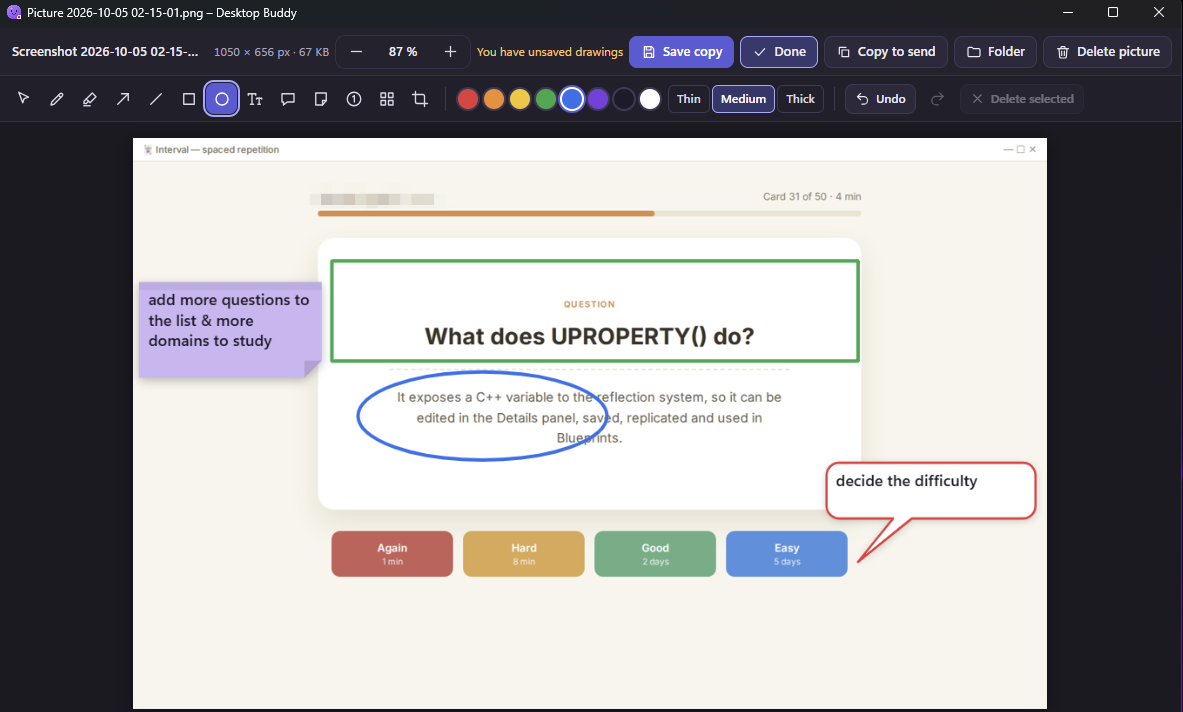
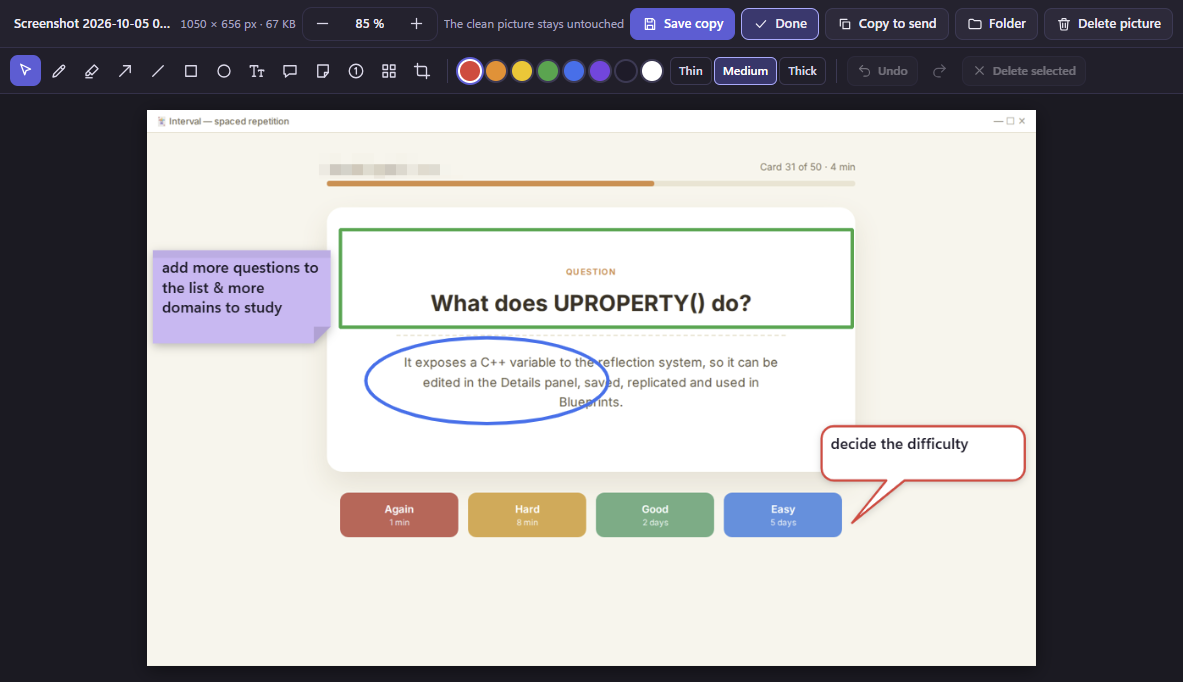
picture window: a light theme; the drawing picture on the site in light and dark
- The picture window (the large picture with its drawing tools) was
  always dark, even with the app on the light theme. view.css keeps
  its dark colours as they were and gets a light set of the same
  tokens under prefers-color-scheme: light, which follows the app's
  Theme setting. Colours that were written straight into rules (danger
  hover, pressed swatch and size, warning status, the checkerboard
  behind transparent pictures, shadows, error text, menu items, links)
  are tokens now, with a value for each theme. Checked rule by rule:
  with the dark values put back in, every rule is the same as before.
- The window opens with the background of the current theme
  (windows.js, like the other windows), so it never flashes dark
  before a light page.
- Presentation page, "Everyday tools": the drawing picture has a
  light and a dark version (screenshot-annotate-light.png and
  screenshot-annotate.png) and the page shows the one that matches
  its theme. Both are the picture window's own content in drawing
  mode, captured through the DevTools protocol with the theme
  emulated, from npm start on _demo-data, with the same drawings as
  the old picture (the demo picture's saved drawings). README and
  FEATURES.md keep screenshot-annotate.png, now the new dark one
  without the title bar. build-site.js copies both;
  docs/media/README.md says how they were made; CHANGELOG has an
  Unreleased entry.

Checked: in the running app, every text in the window's bars passes
[…]

Changed region(s): [[0.0, 0.0, 1.0, 1.0]]

diff --git a/src/renderer/shot/view.css b/src/renderer/shot/view.css
@@ -1,14 +1,33 @@
-/* Large screenshot (1.10.0) + annotations (1.11.0): the bar on top, the toolbar under it, the picture on a dark background. */
+/* Large screenshot (1.10.0) + annotations (1.11.0): the bar on top, the toolbar under it, the picture on a dark background (light in the light theme). */
 /* F-M10: the view keeps its dark canvas (good for pictures), with its colours as local tokens;
-   the filled "primary" buttons use the same --accent-btn as every other window (tokens.css). */
+   the filled "primary" buttons use the same --accent-btn as every other window (tokens.css).
+   Light theme (28.11.2026): with the Theme setting on light (prefers-color-scheme: light), the same tokens take
+   the light palette of tokens.css, so the window matches the rest of the app; dark stays exactly as it was.
+   Every colour that was written straight into a rule is a token now, with a value for each theme. */
 :root {
   --v-bg: #1B1A22; --v-bar: #24222E; --v-bar-2: #211F2A; --v-line: #34314A; --v-line-2: #3D3954;
   --v-surface: #2D2A3B; --v-surface-2: #3A3550; --v-text: #EDEBF5; --v-text-2: #DCD8EA; --v-muted: #A9A4C0; --v-muted-2: #8E89A6;
   --v-focus: #A9A9FF; --v-pressed: rgba(91, 91, 214, .38); --v-link: #C4C4FF; --v-hint-bg: rgba(36, 34, 46, .94);
   --v-done: #187244;   /* F-M5: white on it 5.95:1 (was #2E9E6A, 2.86:1) */
+  --v-on-pressed: #FFFFFF; --v-ring: #FFFFFF; --v-link-hover: #FFFFFF;
+  --v-danger-line: #FF6B7D; --v-danger-hover: #FFB3BC; --v-danger-text: #FF9AA6; --v-err: #FF9AA2; --v-warn: #FFC56B;
+  --v-check-a: #3A3748; --v-check-b: #2E2C3A;
+  --v-shadow-pic: rgba(0, 0, 0, .45); --v-shadow-hint: rgba(0, 0, 0, .4); --v-shadow: rgba(0, 0, 0, .5); --v-shadow-menu: rgba(0, 0, 0, .55);
+  color-scheme: dark;   /* dark scrollbars */
+}
+@media (prefers-color-scheme: light) {
+  :root {
+    --v-bg: #E6E6EE; --v-bar: #FFFFFF; --v-bar-2: #F6F6F9; --v-line: #E1E1EA; --v-line-2: #8A8A98;
+    --v-surface: #F0F0F5; --v-surface-2: #E4E4EE; --v-text: #16161D; --v-text-2: #4A4A57; --v-muted: #62626E; --v-muted-2: #62626E;
+    --v-focus: #5B5BD6; --v-pressed: rgba(91, 91, 214, .16); --v-link: #3A3A9E; --v-hint-bg: rgba(255, 255, 255, .96);
+    --v-on-pressed: #16161D; --v-ring: #16161D; --v-link-hover: #16161D;
+    --v-danger-line: #C0343F; --v-danger-hover: #A82C36; --v-danger-text: #C0343F; --v-err: #C0343F; --v-warn: #7A5200;
+    --v-check-a: #DCDCE6; --v-check-b: #EFEFF5;
+    --v-shadow-pic: rgba(20, 20, 40, .18); --v-shadow-hint: rgba(20, 20, 40, .14); --v-shadow: rgba(20, 20, 40, .16); --v-shadow-menu: rgba(20, 20, 40, .18);
+    color-scheme: light;
+  }
 }
 * { box-sizing: border-box; }
-html { color-scheme: dark; }   /* dark scrollbars */
 html, body { margin: 0; height: 100%; background: var(--v-bg); overflow: hidden; }
 body { display: flex; flex-direction: column; font: 13px/1.4 "Segoe UI Variable Text", "Segoe UI", system-ui, sans-serif; color: var(--v-text); }
 
@@ -22,7 +41,7 @@ body { display: flex; flex-direction: column; font: 13px/1.4 "Segoe UI Variable 
 .v-btn:focus-visible, .v-ibtn:focus-visible, .v-zlabel:focus-visible, .a-tool:focus-visible, .a-swatch:focus-visible { outline: 2px solid var(--v-focus); outline-offset: 1px; }
 .v-btn[aria-pressed="true"] { background: var(--v-pressed); border-color: var(--v-focus); }
 .v-btn.done { background: var(--v-done); border-color: var(--v-done); color: #fff; }
-.v-btn.danger:hover { border-color: #FF6B7D; color: #FFB3BC; }
+.v-btn.danger:hover { border-color: var(--v-danger-line); color: var(--v-danger-hover); }
 .v-btn.asking { background: var(--danger-btn); border-color: var(--danger-btn); color: #fff; }
 .v-btn.primary { background: var(--accent-btn); border-color: var(--accent-btn); color: var(--on-accent); }
 .v-btn.primary:hover { background: var(--accent-btn-hover); }
@@ -49,18 +68,18 @@ body { display: flex; flex-direction: column; font: 13px/1.4 "Segoe UI Variable 
 .a-tool:hover { background: var(--v-surface); }
 .a-tool[aria-pressed="true"] { background: var(--accent-btn); color: #fff; }
 .a-swatch { padding: 0; border: 2px solid var(--v-line-2); border-radius: 50%; cursor: pointer; }
-.a-swatch[aria-pressed="true"] { border-color: #fff; box-shadow: 0 0 0 2px var(--accent-btn); }
+.a-swatch[aria-pressed="true"] { border-color: var(--v-ring); box-shadow: 0 0 0 2px var(--accent-btn); }
 .a-size { min-width: 28px; height: 28px; padding: 0 6px; border: 1px solid var(--v-line-2); border-radius: 6px; background: transparent; color: var(--v-text-2); font: inherit; font-size: 12px; font-weight: 700; cursor: pointer; }
-.a-size[aria-pressed="true"] { background: var(--v-pressed); border-color: var(--v-focus); color: #fff; }
+.a-size[aria-pressed="true"] { background: var(--v-pressed); border-color: var(--v-focus); color: var(--v-on-pressed); }
 .a-status { flex: 0 1 auto; min-width: 0; max-width: 220px; text-align: right; font-size: 12px; color: var(--v-muted); white-space: nowrap; overflow: hidden; text-overflow: ellipsis; }
-.a-status.warn { color: #FFC56B; }
+.a-status.warn { color: var(--v-warn); }
 body:not(.annotating) #status, body:not(.annotating) #saveBtn { display: none; }
 
 /* ---------- the picture */
 .v-stage { flex: 1; min-height: 0; overflow: auto; position: relative; }
 .v-sizer { display: grid; place-items: center; min-width: 100%; min-height: 100%; width: max-content; height: max-content; padding: 16px; }
-.v-layer { position: relative; box-shadow: 0 4px 18px rgba(0, 0, 0, .45);
-  background: repeating-conic-gradient(#3A3748 0 25%, #2E2C3A 0 50%) 0 0 / 16px 16px; }
+.v-layer { position: relative; box-shadow: 0 4px 18px var(--v-shadow-pic);
+  background: repeating-conic-gradient(var(--v-check-a) 0 25%, var(--v-check-b) 0 50%) 0 0 / 16px 16px; }
 #cv { display: block; width: 100%; height: 100%; }
 #cv.pixelated { image-rendering: pixelated; }
 .v-stage.pan, .v-stage.pan #cv { cursor: grab; }
@@ -73,14 +92,14 @@ body:not(.annotating) #status, body:not(.annotating) #saveBtn { display: none; }
 /* the text being typed (over the canvas, at the same scale) */
 .a-edit { position: absolute; margin: 0; padding: 0; border: 0; outline: 1.5px dashed var(--v-focus); outline-offset: 2px; background: transparent; resize: none; overflow: hidden; white-space: pre-wrap; overflow-wrap: anywhere; line-height: 1.3; font-family: "Segoe UI Variable Text", "Segoe UI", system-ui, sans-serif; }
 
-.a-hint { position: fixed; left: 50%; bottom: 16px; transform: translateX(-50%); max-width: calc(100% - 40px); padding: 7px 14px; border-radius: 10px; background: var(--v-hint-bg); border: 1px solid var(--v-line-2); color: var(--v-text); font-size: 12.5px; box-shadow: 0 6px 18px rgba(0, 0, 0, .4); pointer-events: none; }
+.a-hint { position: fixed; left: 50%; bottom: 16px; transform: translateX(-50%); max-width: calc(100% - 40px); padding: 7px 14px; border-radius: 10px; background: var(--v-hint-bg); border: 1px solid var(--v-line-2); color: var(--v-text); font-size: 12.5px; box-shadow: 0 6px 18px var(--v-shadow-hint); pointer-events: none; }
 .a-hint[hidden] { display: none; }
-.v-leave { position: fixed; left: 50%; top: 60px; transform: translateX(-50%); display: flex; flex-wrap: wrap; align-items: center; gap: 8px; width: max-content; max-width: calc(100% - 32px); padding: 10px 12px 10px 16px; border-radius: 12px; background: var(--v-surface); border: 1px solid var(--v-focus); box-shadow: 0 10px 30px rgba(0, 0, 0, .5); z-index: 5; }
+.v-leave { position: fixed; left: 50%; top: 60px; transform: translateX(-50%); display: flex; flex-wrap: wrap; align-items: center; gap: 8px; width: max-content; max-width: calc(100% - 32px); padding: 10px 12px 10px 16px; border-radius: 12px; background: var(--v-surface); border: 1px solid var(--v-focus); box-shadow: 0 10px 30px var(--v-shadow); z-index: 5; }
 .v-leave[hidden] { display: none; }
 .v-leave span { flex: 1 1 260px; }
 #trashAsk { flex-wrap: nowrap; } #trashAsk span { flex: 0 1 auto; margin-right: 6px; } /* 1.14.0: one row; only the text wraps */
 @media (max-width: 640px) { #trashAsk { flex-wrap: wrap; } }
-.v-err { position: fixed; inset: 48px 0 0; display: grid; place-items: center; color: #FF9AA2; font-size: 15px; padding: 24px; text-align: center; }
+.v-err { position: fixed; inset: 48px 0 0; display: grid; place-items: center; color: var(--v-err); font-size: 15px; padding: 24px; text-align: center; }
 .v-err[hidden] { display: none; }
 /* narrow windows (420–760 px): labels become icon-only but stay readable to screen readers (visually hidden, not display:none) */
 @media (max-width: 760px) {
@@ -95,15 +114,15 @@ body:not(.annotating) #status, body:not(.annotating) #saveBtn { display: none; }
 .show-adv .v-link { display: none; }
 
 /* ---------- the right-click menu (1.13.0) */
-.a-menu { position: fixed; z-index: 30; min-width: 220px; max-width: 280px; padding: 6px; border: 1px solid var(--v-line-2); border-radius: 12px; background: var(--v-bar); box-shadow: 0 12px 34px rgba(0, 0, 0, .55); color: var(--v-text); font-size: 13px; }
+.a-menu { position: fixed; z-index: 30; min-width: 220px; max-width: 280px; padding: 6px; border: 1px solid var(--v-line-2); border-radius: 12px; background: var(--v-bar); box-shadow: 0 12px 34px var(--v-shadow-menu); color: var(--v-text); font-size: 13px; }
 .a-menu[hidden] { display: none; }
 .a-menu .m-title { padding: 4px 8px 6px; font-size: 11.5px; font-weight: 700; letter-spacing: .05em; text-transform: uppercase; color: var(--v-muted); }
 .a-menu .m-item { display: flex; align-items: center; gap: 9px; width: 100%; height: 32px; padding: 0 8px; border: 0; border-radius: 7px; background: transparent; color: inherit; font: inherit; text-align: left; cursor: pointer; }
 .a-menu .m-item .icon { width: 16px; height: 16px; flex: none; color: var(--v-text-2); }
 .a-menu .m-item:hover, .a-menu .m-item:focus-visible { background: var(--v-surface-2); outline: none; }
 .a-menu .m-item:disabled { opacity: .4; cursor: default; background: transparent; }
-.a-menu .m-item.danger { color: #FF9AA6; }
-.a-menu .m-item.danger .icon { color: #FF9AA6; }
+.a-menu .m-item.danger { color: var(--v-danger-text); }
+.a-menu .m-item.danger .icon { color: var(--v-danger-text); }
 .a-menu .m-item.asking { background: var(--danger-btn); color: #fff; }
 .a-menu .m-key { margin-left: auto; font-size: 11.5px; color: var(--v-muted-2); }
 .a-menu .m-sep { height: 1px; margin: 5px 4px; background: var(--v-line-2); }
@@ -120,7 +139,7 @@ body:not(.annotating) #status, body:not(.annotating) #saveBtn { display: none; }
 body.annotating .v-seg { display: none; }
 .v-seg button { display: inline-flex; align-items: center; gap: 5px; height: 28px; padding: 0 10px; border: 0; border-radius: 7px; background: transparent; color: var(--v-muted); font: inherit; font-size: 12.5px; font-weight: 600; cursor: pointer; }
 .v-seg button .icon { width: 14px; height: 14px; }
-.v-seg button[aria-pressed="true"] { background: var(--v-surface-2); color: #fff; }
+.v-seg button[aria-pressed="true"] { background: var(--v-surface-2); color: var(--v-on-pressed); }
 .v-seg button:focus-visible { outline: 2px solid var(--v-focus); outline-offset: 1px; }
 .v-btn.danger-fill { background: var(--danger-btn); border-color: var(--danger-btn); color: #fff; }
 .v-btn.danger-fill:hover { background: var(--danger-btn-hover); }
@@ -135,7 +154,7 @@ body.simple.annotating .v-bar:not(.show-adv) #trashBtn { display: none; }
 body.simple #delBtn.has-sel:not(.show-adv .adv) { display: inline-flex !important; }
 .v-more[aria-expanded="true"] { background: var(--v-surface-2); border-color: var(--v-focus); }
 .v-link { flex: none; height: 32px; padding: 0 6px; border: 0; background: transparent; color: var(--v-link); font: inherit; font-size: 12.5px; text-decoration: underline; text-underline-offset: 3px; cursor: pointer; white-space: nowrap; }
-.v-link:hover { color: #fff; }
+.v-link:hover { color: var(--v-link-hover); }
 .v-link:focus-visible { outline: 2px solid var(--v-focus); outline-offset: 1px; border-radius: 4px; }
 .v-link[hidden] { display: none; }
 body.annotating .v-link { display: none; }

diff --git a/scripts/build-site.js b/scripts/build-site.js
@@ -190,7 +190,7 @@ function bundle() {
 function copyWeb() {
   copyDir(path.join(ROOT, 'web'), OUT);
   // the pictures shown on the presentation page
-  const media = ['hero.png', 'hero-light.png', 'editor-montage.png', 'editor-montage-light.png', 'screenshot-annotate.png', 'buddy-shapes.png', 'stats-30-days.png', 'notes-checklist-reminders.png', 'panels-progress.png', 'screenshot-gallery.png'];
+  const media = ['hero.png', 'hero-light.png', 'editor-montage.png', 'editor-montage-light.png', 'screenshot-annotate.png', 'screenshot-annotate-light.png', 'buddy-shapes.png', 'stats-30-days.png', 'notes-checklist-reminders.png', 'panels-progress.png', 'screenshot-gallery.png'];
   fs.mkdirSync(path.join(OUT, 'media'), { recursive: true });
   for (const m of media) fs.copyFileSync(path.join(ROOT, 'docs', 'media', m), path.join(OUT, 'media', m));
   fs.copyFileSync(path.join(ROOT, 'src', 'assets', 'icon.png'), path.join(OUT, 'media', 'icon.png'));

diff --git a/web/index.html b/web/index.html
@@ -98,7 +98,8 @@
       </div>
     </article>
     <article class="feature">
-      <img src="media/screenshot-annotate.png" alt="Drawing on a screenshot: blur, boxes, a sticky note and a speech bubble" loading="lazy">
+      <img class="shot-light" src="media/screenshot-annotate-light.png" width="1183" height="682" alt="Drawing on a screenshot: blur, boxes, a sticky note and a speech bubble" loading="lazy">
+      <img class="shot-dark" src="media/screenshot-annotate.png" width="1183" height="682" alt="Drawing on a screenshot: blur, boxes, a sticky note and a speech bubble" loading="lazy">
       <div>
         <h3>Everyday tools</h3>
         <p>Screenshots you can draw on and blur, notes with checklists and reminders, a clipboard history that never saves passwords or API keys, and send-only email through your own account.</p>

diff --git a/web/site.css b/web/site.css
@@ -87,7 +87,7 @@ section { padding: 32px 0; }
 .feature { display: grid; grid-template-columns: minmax(0, 7fr) minmax(0, 5fr); gap: 32px; align-items: center; background: var(--card); border: 1px solid var(--line); border-radius: 18px; padding: 22px; }
 .feature:nth-of-type(even) img { order: 2; }
 .feature img { border-radius: 10px; border: 1px solid var(--line); }
-/* A picture with a light and a dark version (the clip editor has both themes in the app): the one
+/* A picture with a light and a dark version (the app's windows have both themes): the one
    that doesn't match the page's theme is hidden, and with loading="lazy" never downloaded. The
    theme is the saved choice (data-theme) or, with nothing saved, the system setting. */
 :root[data-theme="light"] .shot-dark,

diff --git a/src/main/windows.js b/src/main/windows.js
@@ -817,7 +817,8 @@ function createWindows({ getSettings, saveBuddyPos, saveTimerPos, hasSession, on
       minHeight: 300,
       show: false,
       autoHideMenuBar: true,
-      backgroundColor: '#1B1A22',
+      // the view's --v-bg in each theme (view.css), so opening it never flashes the other theme
+      backgroundColor: nativeTheme.shouldUseDarkColors ? '#1B1A22' : '#E6E6EE',
       title: 'Picture – Desktop Buddy',
       icon: ICON,
       webPreferences: securePrefs('shotview.js'),

diff --git a/docs/media/README.md b/docs/media/README.md
@@ -10,7 +10,7 @@ Images used by the main README and `docs/FEATURES.md`.
 | `stats-30-days.png` | Statistics → Last 30 days | Windows screenshot, demo data |
 | `panels-progress.png` | Time tab level card + *How the buddy looks* with locked shapes, dark theme | Windows screenshots, demo data |
 | `screenshot-gallery.png` | the Pictures gallery | Windows screenshot |
-| `screenshot-annotate.png` | drawing on a screenshot | Windows screenshot |
+| `screenshot-annotate.png` / `screenshot-annotate-light.png` | drawing on a screenshot (blur, a box, an ellipse, a sticky note, a speech bubble), dark / light theme (the presentation page shows the one that matches its theme) | the picture window's own content (no title bar), captured like the clip editor above; the drawings are the demo picture's saved drawings |
 | `notes-checklist-reminders.png` | a checklist note, the reminder card, a reminder that went off (Snooze / Done), dark theme | Windows screenshots |
 | `buddy-grow.png` | level-up frame (golden ring) + two unlocked looks | automated render |
 | `buddy-idle-recording.png` | the buddy, idle and while recording | automated render |

diff --git a/CHANGELOG.md b/CHANGELOG.md
@@ -2,6 +2,11 @@
 
 All notable changes to Desktop Buddy (Portfolio Edition). Dates are day.month.year.
 
+## Unreleased (28.11.2026)
+
+- The **picture window** (the large picture and its drawing tools) follows the light or dark theme like the other windows; it was always dark. Its colours are now theme tokens in `view.css`, and every text in its bars passes 4.5:1 in both themes (the lowest is 5.37:1). The window opens with the background of the current theme, so it never flashes the other one. The drawings themselves keep their own colours.
+- Presentation page: the hero, the clip editor and the drawing pictures each have a light and a dark version, and the page shows the one that matches its theme. A comment after a dark rule no longer breaks the web demo's Statistics layout in the light theme (`build-site.js`; a test covers it).
+
 ## 1.16.1 (05.10.2026)
 
 Round 3 audit (confirmation): no critical, high or medium issues; the cheap low ones are fixed. 294 unit tests.
